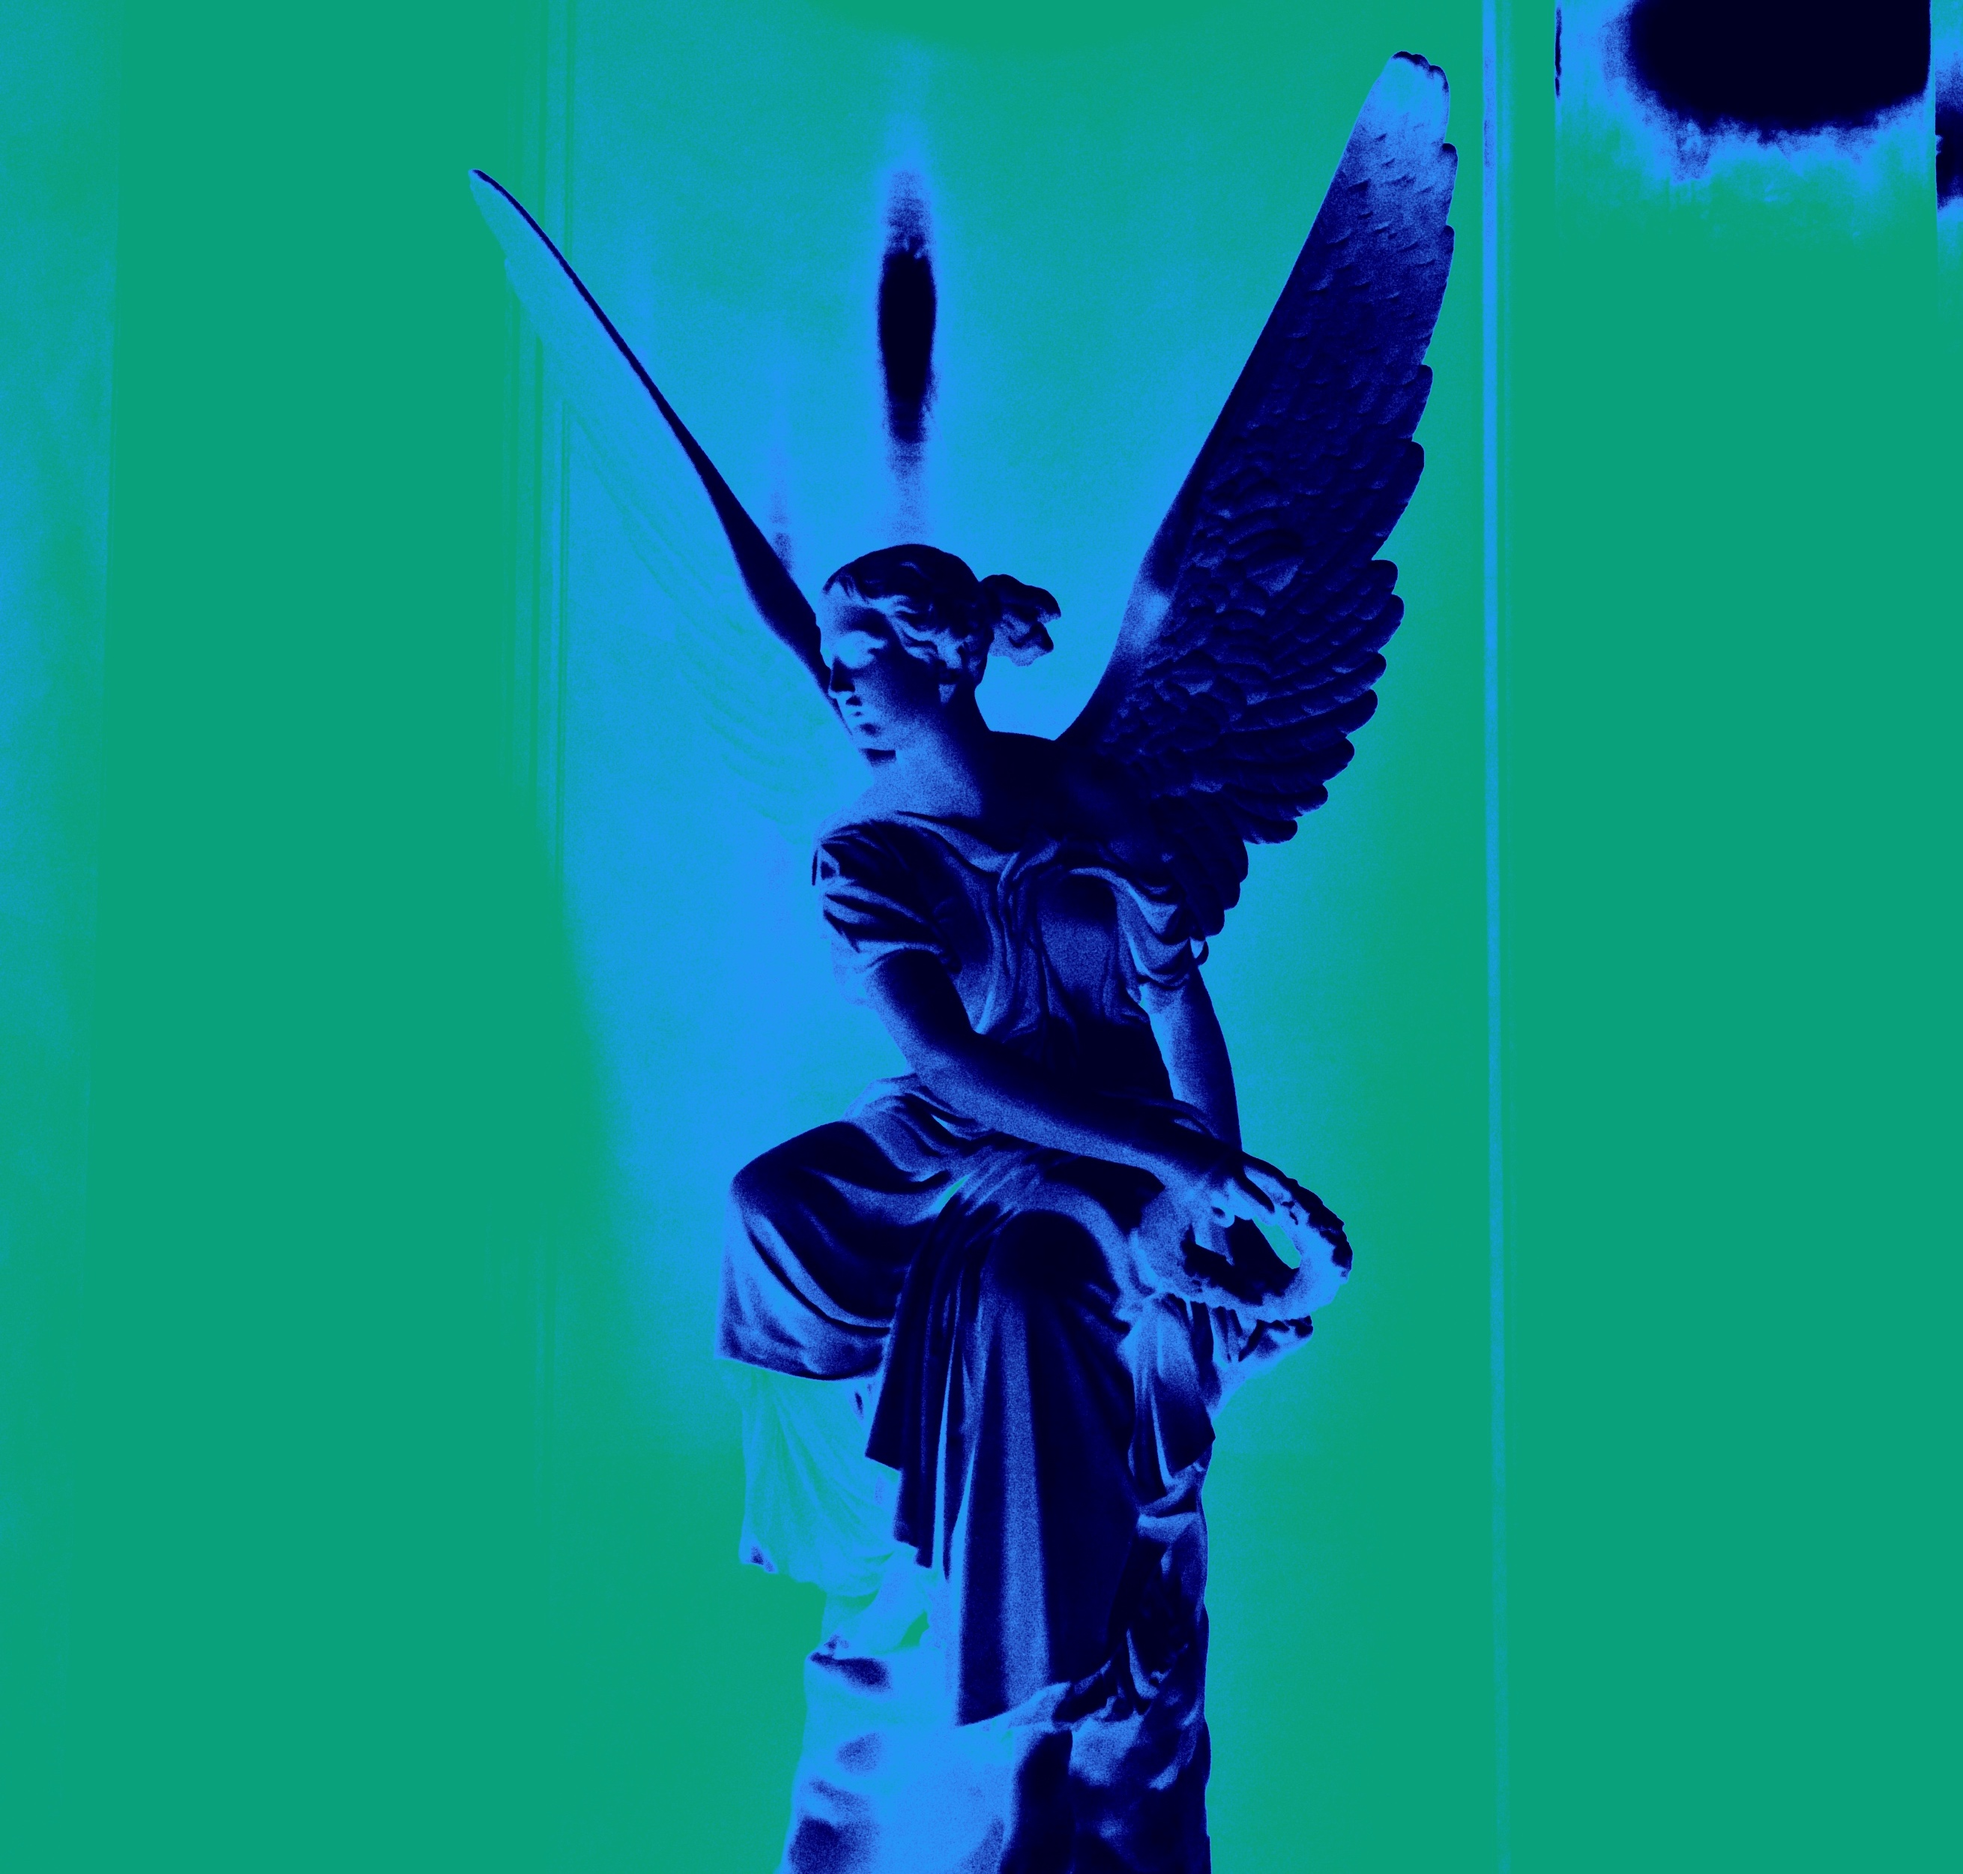
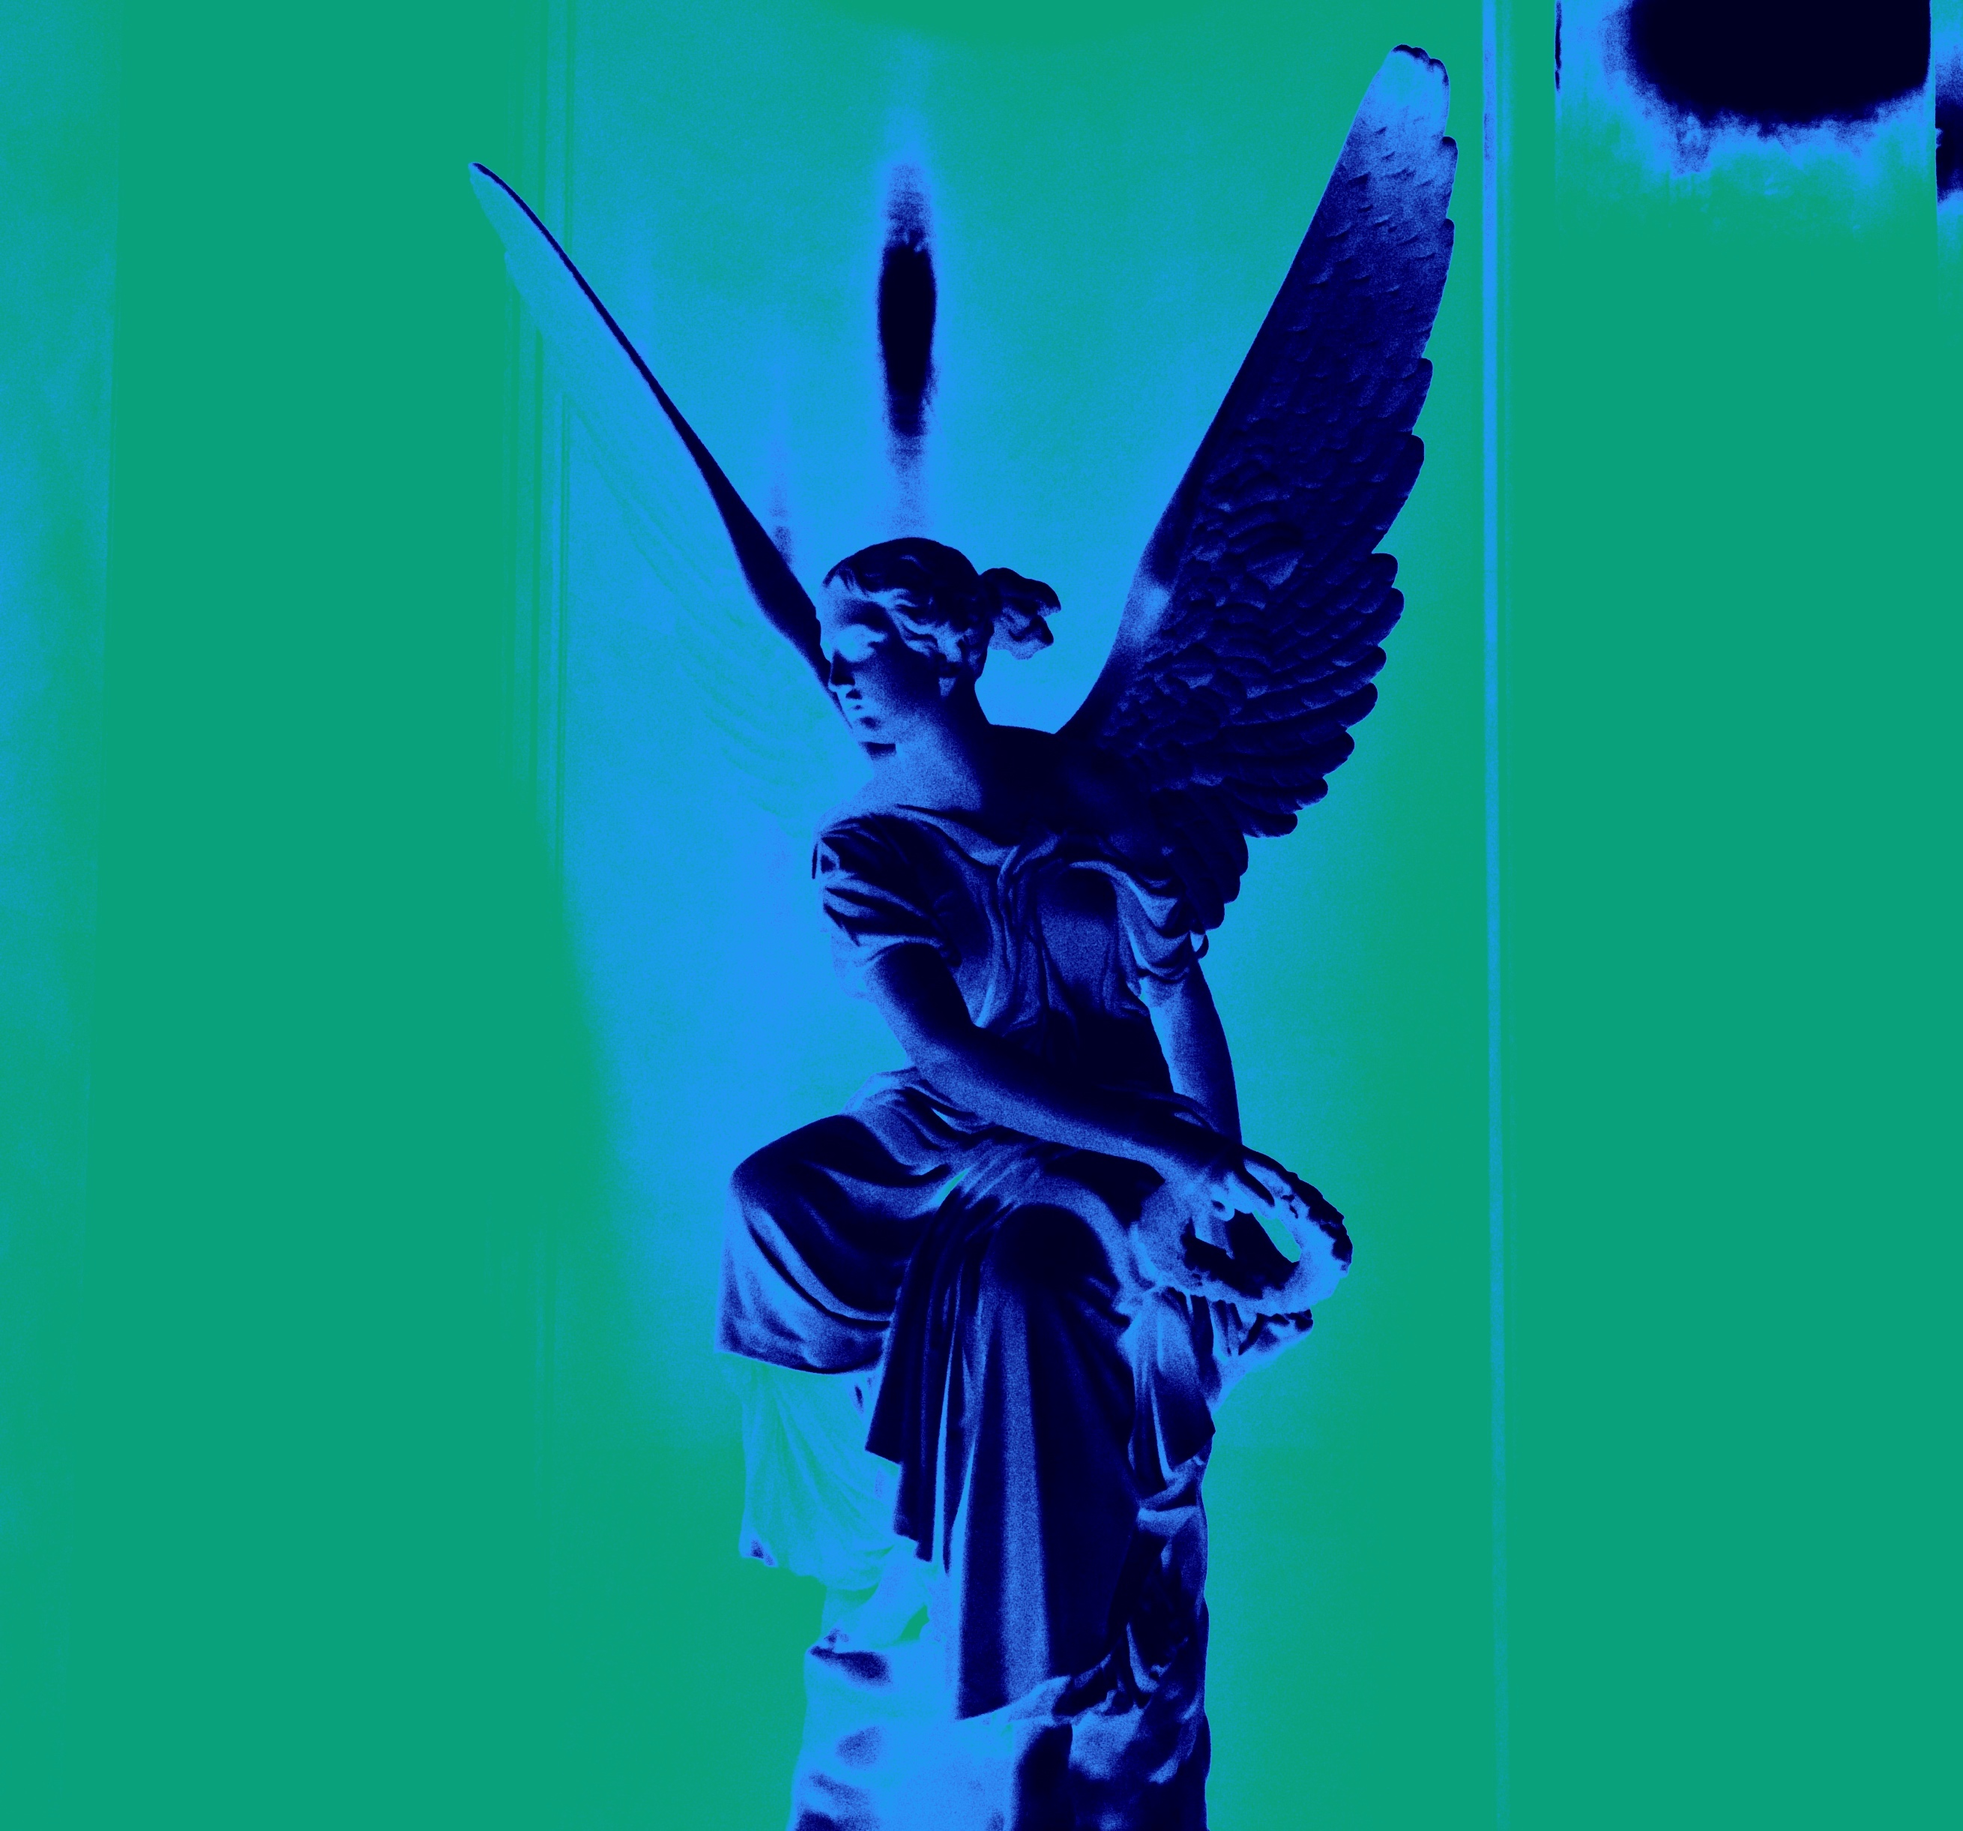
hjk
uiop

diff --git a/experimentieren.html b/experimentieren.html
@@ -44,7 +44,7 @@ loader.className += " hidden"; // class "loader hidden"
  
 
 
-<div class="centered"><h2 style="visibility:hidden"></h2><h1><span style="font-size:16px"><span style="color:#00FF00"><span style="font-family:'Courier New',Arial;"><span style="font-weight: lighter"><center>amygdala_amara</center></span></span></span></span></h1>
+<div class="centered"><a class="ten" href="https://amygdala-amara.com/aboutme" target="_blank">amygdala_amara</a>
 </div>
 
 <div class="streaming">
@@ -56,7 +56,6 @@ loader.className += " hidden"; // class "loader hidden"
 <a class="one" href="#contact">contact;&nbsp;&nbsp;</a>
 <a class="one" href="#press">press;&nbsp;&nbsp;</a>
 <a class="one" href="#live">live;&nbsp;&nbsp;</a>
-<a class="one" href="#mailinglist">mailing list;&nbsp;&nbsp;</a>
 <span style="font-size:16px"><span style="color:#00FF00"><span style="font-family:'Courier New',Arial;"><span style="font-weight: lighter">shop (coming soon);&nbsp;&nbsp;&nbsp;}
 </span></span></span></span></span></span></span></span></center></div>
 
@@ -71,7 +70,7 @@ loader.className += " hidden"; // class "loader hidden"
 <div class="iframe-container"><iframe src="https://www.youtube.com/embed/SxNuDlTxCuk" allow="accelerometer; autoplay; encrypted-media; gyroscope; picture-in-picture" allowfullscreen="" width="100%" frameborder="0"></iframe></div>
 <div class="iframe-container2"><iframe src="https://www.youtube.com/embed/rpq_HBkRZgs" allow="accelerometer; autoplay; encrypted-media; gyroscope; picture-in-picture" allowfullscreen="" width="100%" frameborder="0"></iframe></div>
 
-<div class="parallax-contact"><br><br><br><br><br><br><br><br><br><br><center><div class="contact">
+<div class="parallax-contact"><br><br><a name="contact"><br><br><br><br><br><br><br><br><center><div class="contact">
 <span style="font-size:12px; color:#00FF00; font-family:'Courier New',Arial; font-weight: lighter">
 |<br>
 |<br>
@@ -79,7 +78,7 @@ loader.className += " hidden"; // class "loader hidden"
 _ | _<br>
 _ _ | _ _<br>
 _ | _<br>
-|</p></span><span style="font-size:16px; color:#00FF00; font-family:'Courier New',Arial; font-weight: lighter"><a name="contact">contact</a></span>
+|</p></span><span style="font-size:16px; color:#00FF00; font-family:'Courier New',Arial; font-weight: lighter">contact</a></span>
 <p><span style="font-size:12px; color:#00FF00; font-family:'Courier New',Arial; font-weight: lighter"><br><br>for any requests mail me:<br><a class="six" href="mailto:contact@amygdala-amara.com">contact@amygdala-amara.com</a><br>
 _ _ _ _ _ _ _ _ _ _<br>
 _ _ | _ _<br>
@@ -98,8 +97,8 @@ _ | _<br>
 
 </div>
 
-<div class="parallax-press"><br><br><br><br><br><br><br><br><br>
-<div class="pressphotos"><a name="press"><div class="pressphotos1">press</div></a><div class="pressphotos2"><a name="famous">press photos: </a><a class="six" href="https://www.amygdala-amara.com/press" target="_blank">.{HERE}</a></div></div>
+<div class="parallax-press"><a name="press"><br><br><br><br><br><br><br><br><br>
+<div class="pressphotos"><div class="pressphotos1">press</div></a><div class="pressphotos2"><a name="famous">press photos / text: </a><a class="six" href="https://www.amygdala-amara.com/press" target="_blank">.{HERE}</a></div></div>
 
 <div class="press"><a href="https://www.radioeins.de/programm/sendungen/modo1316/interviews/-amygdala-amara.html" target="_blank"><img class="radioeins" src="radioeins.jpg"></a>
 <span style="font-size:16px; color:#00FF00; font-family:'Courier New',Arial; font-weight: lighter">radioeins</span><br><br><a class="seven" href="https://www.radioeins.de/programm/sendungen/modo1316/interviews/-amygdala-amara.html" target="_blank">german radio interview</a></div>
@@ -108,15 +107,11 @@ _ | _<br>
 
 <div class="parallax-live">
 
-<center><div class="live"><br><br><br><br><br><br><br><br><br>
-<span style="font-size:16px; color:#00FF00; font-family:'Courier New',Arial; font-weight: lighter"><a name="live">amygdala_amara live</a></span>
+<center><div class="live"><br><br><br><br><a name="live"><br><br><br><br><br>
+<span style="font-size:16px; color:#00FF00; font-family:'Courier New',Arial; font-weight: lighter">amygdala_amara live</a></span>
 <p><span style="font-size:12px; color:#00FF00; font-family:'Courier New',Arial; font-weight: lighter">_____________________________________________________________________________________________________________________________<br><br><br><br>it's fucking corona, baby<br><br><br>_____________________________________________________________________________________________________________________________</span></div></center>
 
-</div>
-
-<div class="parallax-mailinglist">
-
-<div class="thanksyou"><br><br><br><br><br><br><br><br><br><br><br><br><br><br><br><br><br><br><br><br><br><br><br><br><br><br><br><br><br><br><br><br><br><br>
+<div class="thanksyou"><br><br><br><br><br><br><br><br><br><br><br><br>
 <center><span style="font-size:12px; color:#00FF00; font-family:'Courier New',Arial; font-weight: lighter">^<br>^<br>\&nbsp;&nbsp; ^ &nbsp;&nbsp;/<br></span><br></center>
 <div class="gif"><center><img src="a_a gif.gif" width="177" height="68"></center></div></div>
 

diff --git a/experiment desktop.css b/experiment desktop.css
@@ -13,6 +13,7 @@ body, html {
 
 html {
   scroll-behavior: smooth;
+  scroll-margin: 50px;
 }
 
 a,a:link,a:visited{outline:none;}
@@ -90,8 +91,8 @@ visibility: hidden;
 
 .centered {
   position: fixed;
-  top: -2.5%;
-  left: 2%;
+  top: 4px;
+  left: 30px;
   z-index: 99;
 }
 
@@ -293,7 +294,7 @@ margin-bottom: 0em !important;
 }
 
 .parallax-press {
-  background-image: linear-gradient(rgba(0, 0, 0, 0.5), rgba(0, 0, 0, 1)), url("blueangel.jpg");
+  background-image: linear-gradient(rgba(0, 0, 0, 0.5), rgba(0, 0, 0, 1)), url("angelgreen.jpg");
 margin-top:0em;
 margin-bottom: 0em !important;
   height: 40em; 
@@ -307,22 +308,13 @@ margin-bottom: 0em !important;
   background-image: linear-gradient(rgba(0, 0, 0, 0.5), rgba(0, 0, 0, 1)), url("angelneon.jpg");
 margin-top:0em;
 margin-bottom: 0em !important;
-  height: 30em; 
+  height: 45em; 
   background-attachment: fixed;
   background-position: center;
   background-repeat: no-repeat;
   background-size: cover;
 }
 
-.parallax-mailinglist {
-  background-image: linear-gradient(rgba(0, 0, 0, 0.5), rgba(0, 0, 0, 1)), url("angelgreen.jpg");
-margin-bottom: 0em !important;
-  height: 50em; 
-  background-attachment: fixed;
-  background-position: center;
-  background-repeat: no-repeat;
-  background-size: cover;
-}
 .iframe-container{
   position: relative;
   width: 100%;
@@ -366,7 +358,7 @@ font-size:16px;
 color:#00FF00; 
 font-family:'Courier New',Arial; 
 font-weight: lighter;
- margin-right: 300px;
+ margin-right: 251px;
  display:inline;
 }
 
@@ -513,6 +505,21 @@ a.five:hover {
   font-weight: lighter;
 }
 
+a.ten {
+color:#00FF00;
+font-family:'Courier New',Arial;
+font-weight: lighter;
+ text-decoration:none;
+font-size: 16px;
+}
+
+a.ten:hover {
+color:#ebe9ff;
+font-family:'Courier New',Arial;
+font-weight: lighter;
+ text-decoration:none;
+font-size: 16px;
+}
 
 
 </style>
